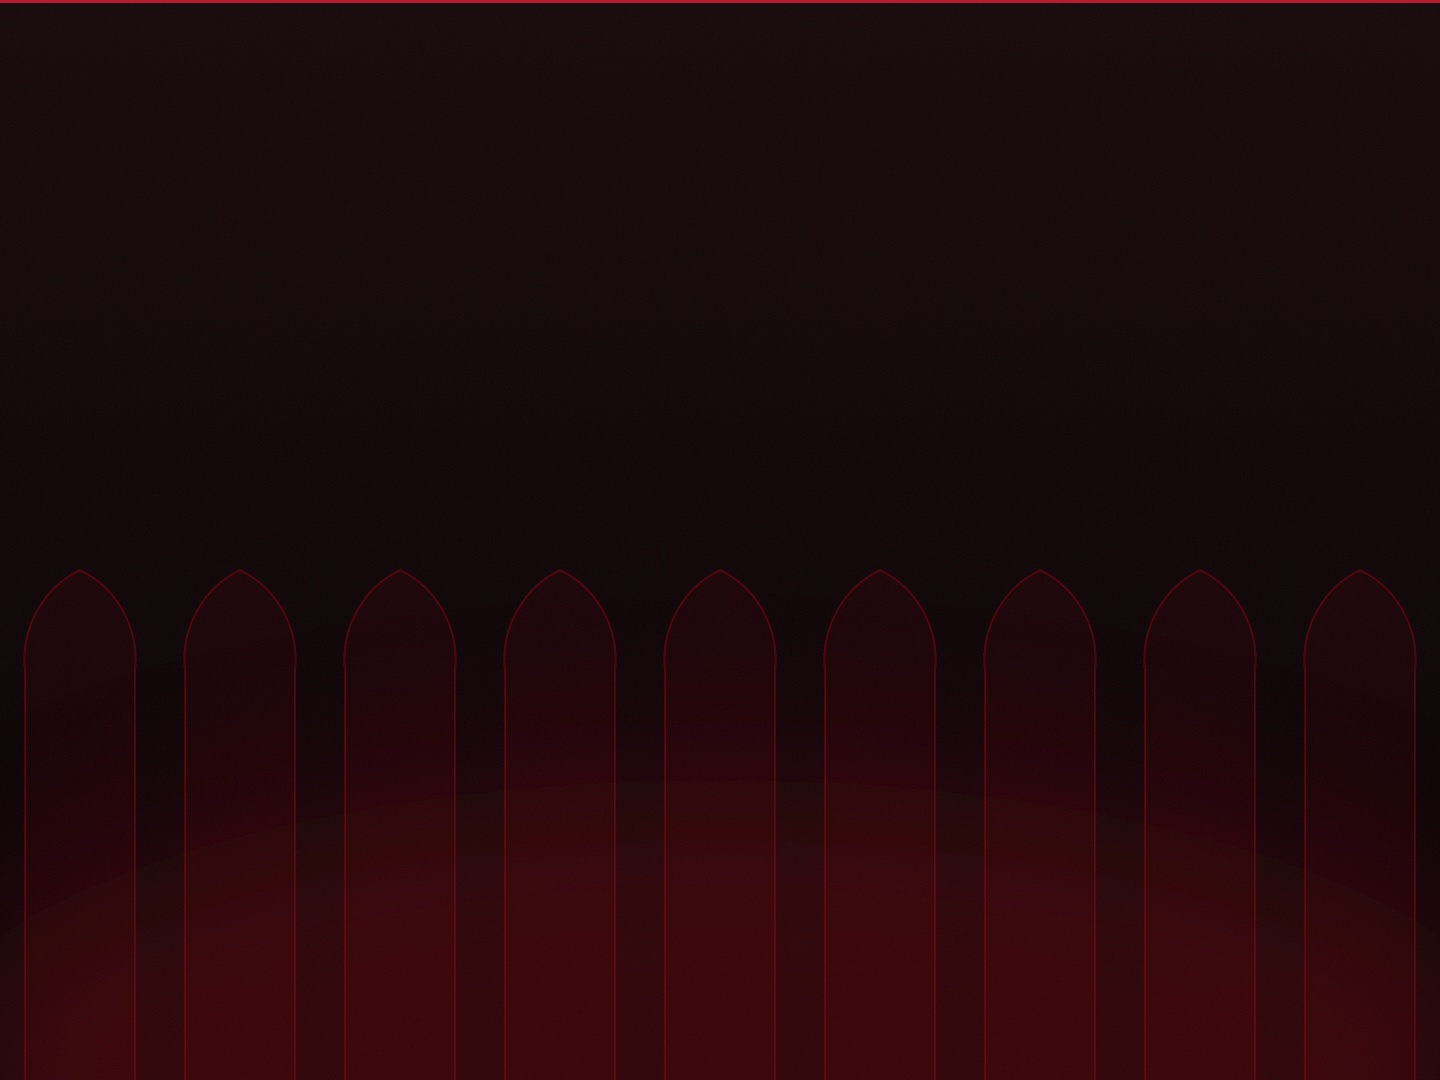
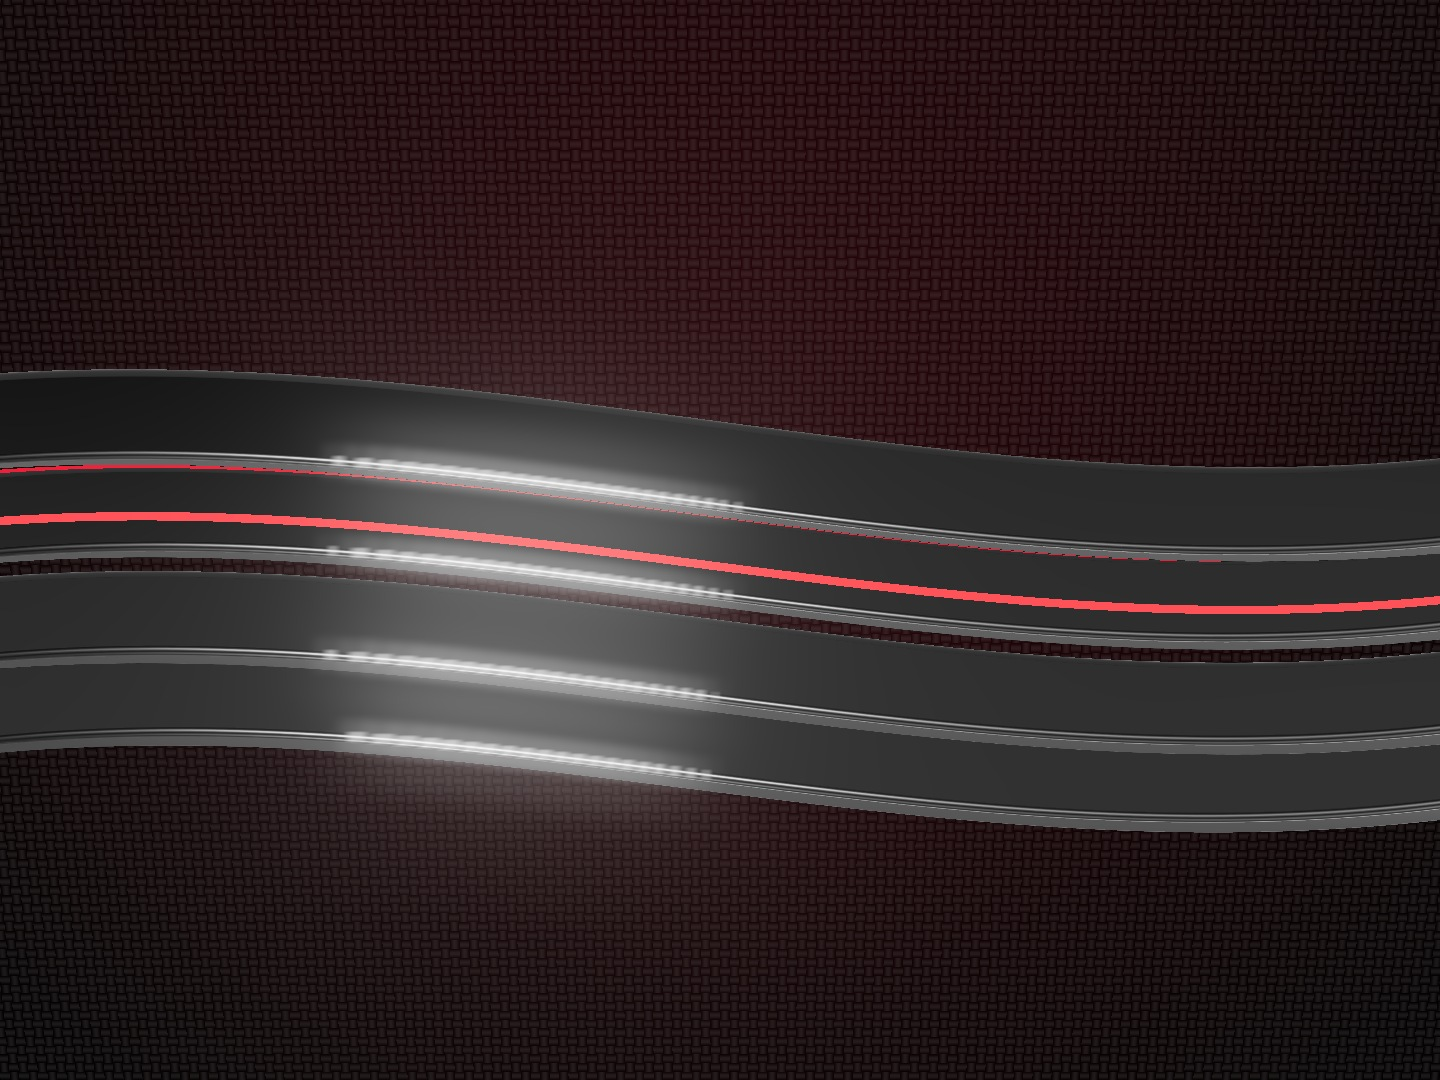
Gothic Crimson: 3D-rendered quick panel and keyboard backgrounds
Replace the flat vector Theme Park images with three.js renders that match
the user's glossy black-and-red carbon wallpaper: thick glossy black bands
(hand-built ribbon geometry so S-bends never twist) with a crimson neon
tube, over a procedural carbon-fibre weave, with bloom and filmic tone
mapping. render.js serves the scene locally and screenshots it from
headless Chromium using SwiftShader WebGL.

Claude-Session: https://claude.ai/code/session_012hMGB7J7nwum8GDAFji8hW

diff --git a/theme/gothic-crimson/src/3d/common.js b/theme/gothic-crimson/src/3d/common.js
@@ -1,0 +1,108 @@
+// Shared renderer setup for the 3D scenes: glossy black materials, crimson bloom, filmic tone mapping.
+import * as THREE from 'three';
+import { EffectComposer } from 'three/addons/postprocessing/EffectComposer.js';
+import { RenderPass } from 'three/addons/postprocessing/RenderPass.js';
+import { UnrealBloomPass } from 'three/addons/postprocessing/UnrealBloomPass.js';
+import { OutputPass } from 'three/addons/postprocessing/OutputPass.js';
+import { RoomEnvironment } from 'three/addons/environments/RoomEnvironment.js';
+
+export const CRIMSON = 0xe01e37;
+
+/** A renderer the size of the page, with a soft studio environment so glossy black shows its curves. */
+export function setup({ width, height, exposure = 1.0 }) {
+  const renderer = new THREE.WebGLRenderer({ antialias: true, preserveDrawingBuffer: true });
+  renderer.setPixelRatio(1);
+  renderer.setSize(width, height);
+  renderer.toneMapping = THREE.ACESFilmicToneMapping;
+  renderer.toneMappingExposure = exposure;
+  document.body.appendChild(renderer.domElement);
+
+  const scene = new THREE.Scene();
+  scene.background = new THREE.Color(0x030203);
+  const pmrem = new THREE.PMREMGenerator(renderer);
+  scene.environment = pmrem.fromScene(new RoomEnvironment(), 0.04).texture;
+  return { renderer, scene };
+}
+
+/** Glossy black plastic, like the bands in the user's wallpaper. */
+export function gloss(params = {}) {
+  return new THREE.MeshPhysicalMaterial({
+    color: 0x060506,
+    metalness: 0.0,
+    roughness: 0.22,
+    clearcoat: 1,
+    clearcoatRoughness: 0.06,
+    envMapIntensity: 0.35,
+    ...params,
+  });
+}
+
+/** Light-emitting surfaces, for the neon. */
+export function glow(color = CRIMSON, intensity = 4) {
+  return new THREE.MeshBasicMaterial({ color: new THREE.Color(color).multiplyScalar(intensity) });
+}
+
+/**
+ * A thick ribbon following a curve in the XY plane: a rounded-rectangle cross-section, [width] across the
+ * curve and [thickness] towards the camera. Built by hand so the bands never twist at an S-bend.
+ */
+export function ribbon(curve2d, { width, thickness, steps = 400, radius = 0.12 }) {
+  const profile = [];
+  const corner = 6;
+  const hw = width / 2 - radius;
+  const ht = thickness / 2 - radius;
+  for (const [cx, cy, start] of [[hw, ht, 0], [-hw, ht, 90], [-hw, -ht, 180], [hw, -ht, 270]]) {
+    for (let i = 0; i <= corner; i++) {
+      const a = ((start + (i / corner) * 90) * Math.PI) / 180;
+      profile.push([cx + Math.cos(a) * radius, cy + Math.sin(a) * radius]);
+    }
+  }
+  const ring = profile.length;
+  const pos = [];
+  for (let s = 0; s <= steps; s++) {
+    const t = s / steps;
+    const p = curve2d.getPoint(t);
+    const tan = curve2d.getTangent(t);
+    const n = new THREE.Vector2(-tan.y, tan.x);
+    for (const [u, v] of profile) pos.push(p.x + n.x * u, p.y + n.y * u, v);
+  }
+  const index = [];
+  for (let s = 0; s < steps; s++) {
+    for (let i = 0; i < ring; i++) {
+      const a = s * ring + i;
+      const b = s * ring + ((i + 1) % ring);
+      const c = a + ring;
+      const d = b + ring;
+      index.push(a, c, b, b, c, d);
+    }
+  }
+  const geo = new THREE.BufferGeometry();
+  geo.setAttribute('position', new THREE.Float32BufferAttribute(pos, 3));
+  geo.setIndex(index);
+  geo.computeVertexNormals();
+  return geo;
+}
+
+/** The same curve shifted sideways by [offset] and towards the camera by [z], as a 3D path for a tube. */
+export function offsetPath(curve2d, offset, z, samples = 300) {
+  const pts = [];
+  for (let i = 0; i <= samples; i++) {
+    const t = i / samples;
+    const p = curve2d.getPoint(t);
+    const tan = curve2d.getTangent(t);
+    pts.push(new THREE.Vector3(p.x - tan.y * offset, p.y + tan.x * offset, z));
+  }
+  return new THREE.CatmullRomCurve3(pts);
+}
+
+/** Renders once with bloom, then flags the page as done for the screenshot script. */
+export function finish({ renderer, scene, camera, width, height, bloom = {} }) {
+  const composer = new EffectComposer(renderer);
+  composer.addPass(new RenderPass(scene, camera));
+  composer.addPass(new UnrealBloomPass(
+    new THREE.Vector2(width, height), bloom.strength ?? 0.9, bloom.radius ?? 0.5, bloom.threshold ?? 0.9,
+  ));
+  composer.addPass(new OutputPass());
+  composer.render();
+  window.__done = true;
+}

diff --git a/theme/gothic-crimson/src/3d/bands.html b/theme/gothic-crimson/src/3d/bands.html
@@ -1,0 +1,92 @@
+<!doctype html>
+<html>
+<head>
+<meta charset="utf-8">
+<!--
+  Glossy black 3D bands with a crimson neon line, matching the user's home-screen wallpaper.
+  ?scene=panel renders the quick panel background (1440x3120); ?scene=keys the keyboard (1440x1080).
+-->
+<script type="importmap">
+{ "imports": { "three": "./node_modules/three/build/three.module.js", "three/addons/": "./node_modules/three/examples/jsm/" } }
+</script>
+<style>html, body { margin: 0; background: #000; overflow: hidden; }</style>
+</head>
+<body>
+<script type="module">
+import * as THREE from 'three';
+import { setup, gloss, glow, ribbon, offsetPath, finish, CRIMSON } from './common.js';
+
+const which = new URLSearchParams(location.search).get('scene') || 'panel';
+const SCENES = {
+  // Tall: bands sweep diagonally down the screen and bend, with the neon running through the middle band.
+  panel: {
+    width: 1440, height: 3120, fov: 38, camera: [1.5, -2, 44], target: [0, 0, 0],
+    curve: (k) => new THREE.CubicBezierCurve(
+      new THREE.Vector2(-13 + k * 2.3, 19), new THREE.Vector2(-9 + k * 2.3, 2),
+      new THREE.Vector2(8 + k * 2.3, 4), new THREE.Vector2(4 + k * 2.3, -19)),
+    bands: 5, bandWidth: 1.9, thickness: 0.8, neonBand: 2,
+  },
+  // Wide and calm: shallow bands across the bottom, the neon near the bottom edge, dark at the top for keys.
+  keys: {
+    width: 1440, height: 1080, fov: 34, camera: [0, 4, 24], target: [0, -1.5, 0],
+    curve: (k) => new THREE.CubicBezierCurve(
+      new THREE.Vector2(-14, -0.4 - k * 1.45), new THREE.Vector2(-4, 2.0 - k * 1.45),
+      new THREE.Vector2(4, -3.0 - k * 1.45), new THREE.Vector2(14, -0.2 - k * 1.45)),
+    bands: 4, bandWidth: 1.25, thickness: 0.6, neonBand: 1,
+  },
+};
+const cfg = SCENES[which];
+const { width, height } = cfg;
+const { renderer, scene } = setup({ width, height, exposure: 0.8 });
+
+const camera = new THREE.PerspectiveCamera(cfg.fov, width / height, 0.1, 200);
+camera.position.set(...cfg.camera);
+camera.lookAt(...cfg.target);
+
+const material = gloss();
+for (let k = 0; k < cfg.bands; k++) {
+  const curve = cfg.curve(k);
+  const band = new THREE.Mesh(ribbon(curve, { width: cfg.bandWidth, thickness: cfg.thickness }), material);
+  // Alternate depth a little so the bands overlap like layered slats.
+  band.position.z = (k % 2 ? -0.25 : 0.25) - k * 0.15;
+  scene.add(band);
+
+  if (k === cfg.neonBand) {
+    // Neon tube along the top face of this band, plus a fainter twin on the band's far edge.
+    const z = band.position.z + cfg.thickness / 2 + 0.03;
+    scene.add(new THREE.Mesh(new THREE.TubeGeometry(offsetPath(curve, 0, z), 600, 0.06, 12), glow(CRIMSON, 2.4)));
+    scene.add(new THREE.Mesh(
+      new THREE.TubeGeometry(offsetPath(curve, cfg.bandWidth / 2 + 0.02, band.position.z), 600, 0.025, 8),
+      glow(CRIMSON, 1.4),
+    ));
+  }
+}
+
+// Carbon-fibre weave behind the bands, lit by a red glow in the middle.
+const backdrop = new THREE.Mesh(
+  new THREE.PlaneGeometry(120, 120),
+  new THREE.ShaderMaterial({
+    uniforms: { glow: { value: new THREE.Color(0x3a0610) } },
+    vertexShader: 'varying vec2 vUv; void main() { vUv = uv; gl_Position = projectionMatrix * modelViewMatrix * vec4(position, 1.0); }',
+    fragmentShader: `
+      uniform vec3 glow; varying vec2 vUv;
+      void main() {
+        vec2 g = vUv * 700.0;
+        vec2 cell = floor(g);
+        vec2 f = fract(g);
+        // Alternate the tow direction cell by cell, like a 2x2 twill.
+        float across = mod(cell.x + cell.y, 2.0) > 0.5 ? f.x : f.y;
+        float ridge = pow(sin(across * 3.14159), 1.5);
+        vec3 col = vec3(mix(0.006, 0.032, ridge)) * vec3(1.0, 0.93, 0.95);
+        col += glow * smoothstep(0.16, 0.0, distance(vUv, vec2(0.5)));
+        gl_FragColor = vec4(col, 1.0);
+      }`,
+  }),
+);
+backdrop.position.z = -5;
+scene.add(backdrop);
+
+finish({ renderer, scene, camera, width, height, bloom: { strength: 1.0, radius: 0.55, threshold: 0.85 } });
+</script>
+</body>
+</html>

diff --git a/theme/gothic-crimson/src/3d/render.js b/theme/gothic-crimson/src/3d/render.js
@@ -1,0 +1,46 @@
+// Renders the 3D scenes to ../../theme-park/*.jpg with headless Chromium (WebGL via SwiftShader).
+// Run from this folder: npm install && node render.js
+const http = require('http');
+const fs = require('fs');
+const path = require('path');
+const { chromium } = require('playwright');
+
+const SCENES = {
+  'quick-panel': { page: 'bands.html?scene=panel', width: 1440, height: 3120 },
+  keyboard: { page: 'bands.html?scene=keys', width: 1440, height: 1080 },
+};
+const TYPES = { '.html': 'text/html', '.js': 'text/javascript' };
+
+// ES modules don't load from file:// URLs, so serve this folder locally.
+const server = http.createServer((req, res) => {
+  const file = path.join(__dirname, decodeURIComponent(req.url.split('?')[0]));
+  if (!file.startsWith(__dirname) || !fs.existsSync(file)) {
+    res.writeHead(404).end();
+    return;
+  }
+  res.writeHead(200, { 'Content-Type': TYPES[path.extname(file)] || 'application/octet-stream' });
+  fs.createReadStream(file).pipe(res);
+});
+
+server.listen(0, async () => {
+  const base = `http://127.0.0.1:${server.address().port}`;
+  const outDir = path.join(__dirname, '..', '..', 'theme-park');
+  fs.mkdirSync(outDir, { recursive: true });
+  const browser = await chromium.launch({ args: ['--use-angle=swiftshader', '--enable-unsafe-swiftshader', '--ignore-gpu-blocklist'] });
+  try {
+    for (const [name, { page, width, height }] of Object.entries(SCENES)) {
+      const tab = await browser.newPage({ viewport: { width, height } });
+      tab.on('pageerror', (e) => console.error(`${page}: ${e.message}`));
+      tab.on('console', (m) => m.type() === 'error' && console.error(`${page}: ${m.text()}`));
+      await tab.goto(`${base}/${page}`);
+      await tab.waitForFunction(() => window.__done === true, null, { timeout: 600000 });
+      const canvas = await tab.$('canvas');
+      await canvas.screenshot({ path: path.join(outDir, `${name}.jpg`), type: 'jpeg', quality: 93 });
+      await tab.close();
+      console.log(`wrote ${name}.jpg`);
+    }
+  } finally {
+    await browser.close();
+    server.close();
+  }
+});

diff --git a/theme/gothic-crimson/src/wallpapers.js b/theme/gothic-crimson/src/wallpapers.js
@@ -238,9 +238,6 @@ function voidArch() {
 module.exports = {
   W,
   H,
-  defs,
-  lancet,
-  roseWindow,
   wallpapers: {
     'gothic-crimson-cathedral': cathedral,
     'gothic-crimson-rose-window': roseLock,

diff --git a/theme/gothic-crimson/theme-park/README.md b/theme/gothic-crimson/theme-park/README.md
@@ -6,8 +6,8 @@ images and the exact colours for each tab.
 
 | File | Used for |
 | --- | --- |
-| `quick-panel.jpg` | Quick panel background: a faint glowing rose window at the top, dark where the tiles sit |
-| `keyboard.jpg` | Keyboard background: near-black with a row of faint gothic windows |
+| `quick-panel.jpg` | Quick panel background: glossy black 3D bands sweeping down the screen with a crimson neon line, over carbon fibre |
+| `keyboard.jpg` | Keyboard background: the same bands running across, dark at the top so the keys stay readable |
 | `../wallpapers/*.jpg` | Wallpapers, also used to build the system colours |
 
 Save both images to your phone first (open each on GitHub → **⋯ → Download**).
@@ -85,8 +85,13 @@ theme.
 
 ## Change the images
 
-`../src/themepark.js` draws both images. Edit it, then run from the repository root:
+Both are real 3D renders (three.js), made to match a glossy black-and-red carbon wallpaper. The scene is
+`../src/3d/bands.html`, with shared materials and geometry in `../src/3d/common.js`. To re-render:
 
 ```
-node theme/gothic-crimson/src/themepark.js
+cd theme/gothic-crimson/src/3d
+npm install
+node render.js
 ```
+
+It needs Playwright with Chromium, and renders with WebGL in software, so no graphics card is required.
